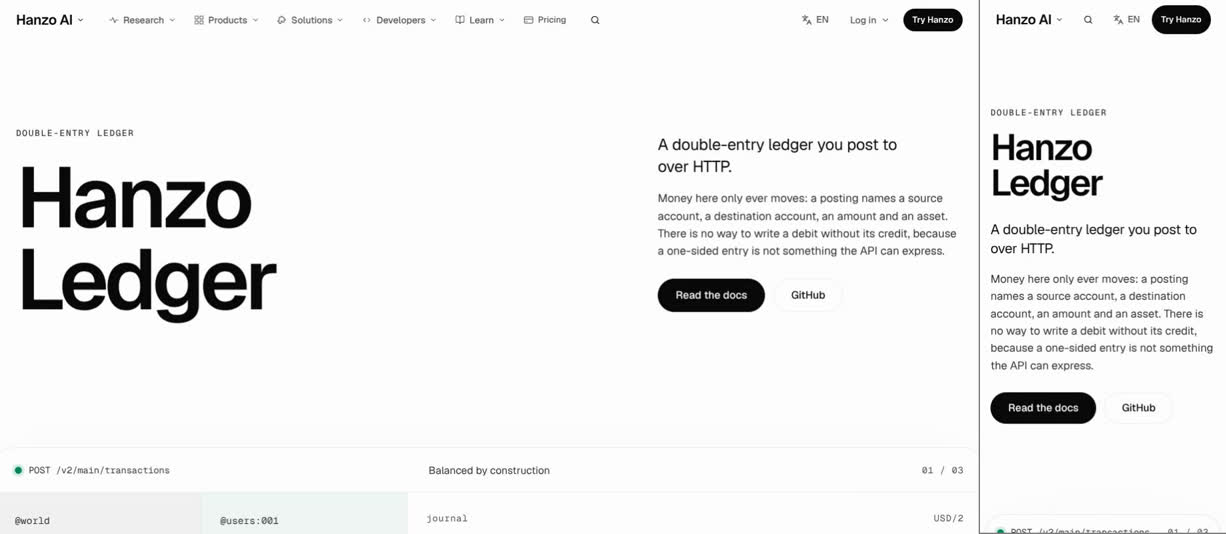
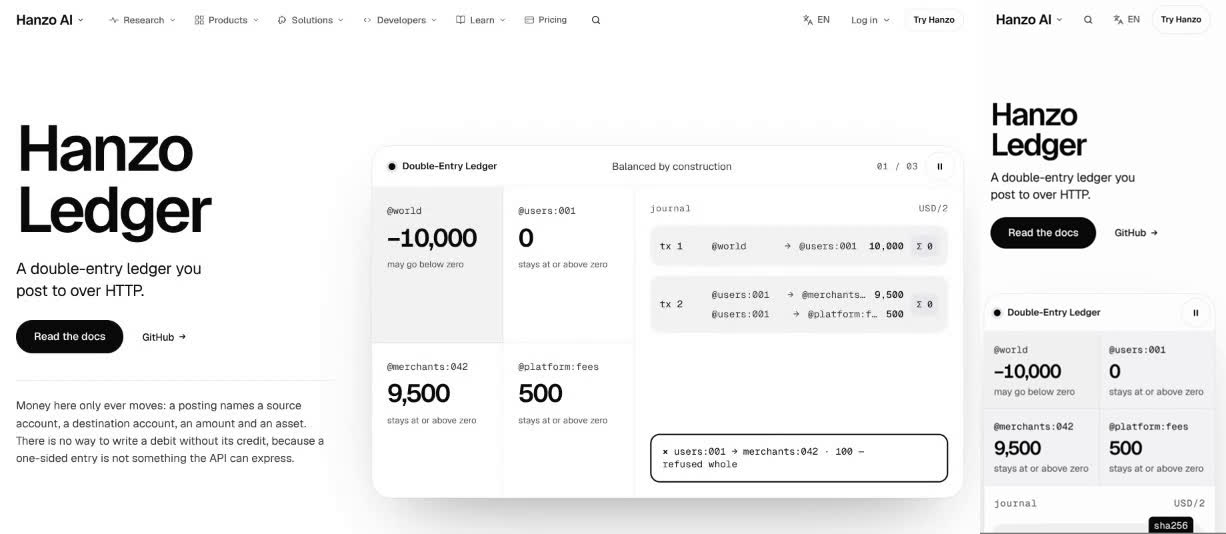
re-review: /ledger 6/10 (colour and eyebrow fixed, book on first screen; two sticky asks stacked, green code panel)
Claude-Session: https://claude.ai/code/session_01DqUybEnABm6Lfey1goid2b

diff --git a/docs/review/ledger.md b/docs/review/ledger.md
@@ -1,48 +1,90 @@
 # /ledger: James-eye review
 
-Verdict: 5/10
-First complaint: "It's green. Green accents are on my reject list, and the whole book is emerald, with red on top. Then on my phone the first screen is a label, a title and a paragraph of small text, with no ledger in sight. That's a document, not a product."
+Verdict: 6/10
+First complaint: "The top is right now: the ledger moves and it's all grey. But as soon as I scroll there are two 'Read the docs' buttons stuck on top of each other at the bottom. It looks broken. In the black section the first tab is just an empty pill, and 'See the request' opens in green, blue and yellow."
 
-Reviewed: branch `claude/friendly-mccarthy-g2d3no` @ `981cd30` (not on main yet). Files hash: `559dd4e16356`
-Walked 7 Nov 13:39–13:45 UTC on the dev server, moving, at 1470×801 and 375×812 (videos, frame sheets and a frame-difference motion log kept by the critic; the site loader was skipped).
+Reviewed: main @ `069c088` (last page commit `4e4b1b1`). Files hash: `506a34f8904e`
+Walked 7 Nov 14:16–14:18 UTC on the dev server, moving, at 1470×801 and 375×812 (videos, frame sheets and a frame-difference motion log kept by the critic; the site loader was skipped).
 Proof: `img/ledger.jpg` (desktop first screen | phone first screen).
 
+## Since the last review
+- **Done: the emerald, the red and the eyebrow.** No hues on the page at either width (it was emerald and red). Nothing sits above the h1 (it was the 23px "DOUBLE-ENTRY LEDGER" label). **Still open:** the "See the request" sheet. Its code has green strings (#1a7f37), blue keywords (#0a58ca) and a yellow highlight on the Idempotency-Key line (phone film at 26 s). The walk's hue count missed it because the sheet was open for only about a second.
+- **Done: the book is on the first screen at both widths.** At 1470×801 the whole book sits beside the title: four balances (−10,000 / 0 / 9,500 / 500), the journal and the note. At 375×812 it starts at about 450px with all four balances above the fold. On phone 21 of 25 frames move in the first second.
+- **Half done: one ask.** "Read the docs" is now the solid button in the hero, the phone bar and the close. "GitHub", "View on GitHub" and "Deploy to Cloud" are text, and there are 3 `data-cta`. But on desktop the page's own sticky pill sits on top of the site's ask bar. That makes two fixed, solid "Read the docs" buttons at y 726 and 734 on every screen from s2 to s8, a few pixels apart, so the edges of both show. At the close (s9) the site's bar steps aside, but the page's pill stays on beside the close's own solid button.
+- **Done: buttons answer, pause, coverage.** The hero's "Read the docs" now answers on hover and presses to 0.98 (it was dead). The book has a 44px pause button (`aria-pressed`), and the tap works on phone. No phone targets are under 44px now (before: 21px links and a 40px chip). `docs/coverage/ledger.md` exists, and the header has Persona, Goal and CTA.
+- **Half done: the dark room.** Each capability now has an object: the Numscript with its result, "10000 USD/2 → 100.00 USD", and the balances list. Tapping "USD/2" switches to it. But the selected tab is invisible. Its pill never draws, so "send" measures 1.2:1 and looks like an empty outline at both widths, and its hover is dead.
+
 ## The 11 answers
-1. **Sells in 5 seconds, moves within 1 second?** Desktop: the title cuts in by line mask, so it moves. But the self-balancing book, the page's best idea, sits on the fold: at 801 high you see only its toolbar ("POST /v2/main/transactions · Balanced by construction · 01 / 03"). The rest of the first screen is a 4-line paragraph. Phone: no object at all on the first screen. The book starts below it.
-2. **One in, one out, or a document?** The three sticky chapters (posting, chain, retry) work: one scene changes while the text holds, with a 01–03 progress line. The dark room "What the API gives you" is four stacked items with paragraphs, which reads as a list. The close is three text blocks.
-3. **A real object in every section?** Hero: yes, the book (accounts, journal, Σ 0 seals, idempotency key), but it is below the first screen. Chapters: yes. The splitter: yes, the best Beyond so far. Dark room: big mono glyphs ("send", "USD/2", "Σ users:*") stand in for objects; that is type, not a thing. Close: no object.
-4. **One ask, sticky after the hero?** No. The hero has "Read the docs" (solid) and "GitHub" (outlined). The phone bottom bar carries "Read the docs" while the header shows a solid "Try Hanzo": two solid asks on every phone screen. The close's solid button is a third verb, "Deploy to Cloud". On desktop no page ask follows you after the hero; only the header's "Try Hanzo" does.
-5. **Every hover and press answers?** No. "Read the docs" (hero) and "Deploy to Cloud" (close): the hover only changes the border colour, which is invisible on a black button, and there is no press state. The split slider shows no hover. "See the request" answers well (press 0.97). The close's text links answer. Nothing responds to the pointer otherwise (no magnetic ask, tilt or preview).
-6. **Overlap, font swap, layout shift?** None found. CLS 0 on both, h1 box steady, no horizontal scroll at 375.
-7. **Which reference, and is its motion there?** apple.com product page: sticky chapters, yes. synchronized.studio card-open: no; "See the request" opens a sheet, which is the nearest. There is no hero figure for the anthropic-launch feel, even though the balances (−10,000 / 10,000 / 9,500 / 500) could be one.
-8. **Different from its neighbours?** No. Same first screen as /metrics and the Cloud kit: a two-line 128px "Hanzo X" left, lede and buttons right, product strip on the fold, numbered chapters, one dark room, a "Get X" block.
-9. **All 18 parts covered?** No; see below. `docs/coverage/ledger.md` is missing.
+1. **Sells in 5 seconds, moves within 1 second?** Yes, now.
+   - Desktop: everything fits inside 801: "Hanzo / Ledger" at 96px (line height 0.92), "A double-entry ledger you post to over HTTP.", the ask, and the live book beside them.
+   - The title cuts in by line mask (5/25 moving frames in the first second). Then the book posts by itself (15/45 moving frames in the rest of the 3 s): new money from world, the split as one transaction, an overdraft "refused whole", then "Nothing is edited" with the sha256 chain and the reversal.
+   - Phone: title, line, ask and the book's four balances are all on the first screen, with 21/25 moving frames in the first second.
+2. **One in, one out, or a document?** Mostly one in, one out. The hero book leads into "Every cent lands somewhere" and its three pinned chapters (01–03, one lit at a time, with a progress line). Then come the dark room's tabs and the splitter. On phone the three chapters swap in turn: the posting with a dot running down the arrow, the chain, then the retries. The close is still a block of text: "Get Ledger", two chips, "Get started with Ledger", "Paste and ship", an agent prompt and the "Deploy to Cloud" row.
+   - Evidence caveat: the desktop film froze from about 10 s to 19 s and again from 22 s to 27 s, while the page kept changing underneath. Each stop logged 18–55 DOM changes, and the sticky bar measured on at s1 but does not appear in the frames.
+   - So the STILL readings at desktop s1, s2 and s4 come from the recording, not the page, and chapter 01 was never filmed lit on desktop.
+   - Every phone screen moves, down to the footer.
+3. **A real object in every section?** Yes, apart from the close.
+   - Hero: the book.
+   - Chapters: the posting (source → destination, 9500, USD/2, Σ 0), the chain (tx 1–3, "sha256 of tx 2") and the retries ("the original — tx 2", "different postings — caught", "1 transaction 2, posted once").
+   - Dark room: one object per tab.
+   - Numscript: the splitter, which rewrites the postings and the Numscript as you drag. 95% → 75% gave 7,500 / 2,500 at both widths.
+   - Close: only the shared agent prompt box.
+4. **One ask, sticky after the hero?** The verb is right, but desktop doubles it.
+   - Phone gets it right: the thumb bar carries "Read the docs" from s2 to s7 and steps aside for the close's button at s8.
+   - Desktop, s2 to s8: the page's pill ("Hanzo Ledger | Read the docs") sits over the site's own ask bar (search icon + "Read the docs →"). Both are fixed, both are solid, both sit bottom centre.
+   - With the header, that makes three fixed layers. PLAN 0.9 allows two.
+   - At s9 the site's bar steps aside for the close's button, but the page's pill stays on next to it.
+5. **Every hover and press answers?** Mostly.
+   - Hero "Read the docs": the hover answers, and it presses to 0.98.
+   - "GitHub": the hover answers, and it presses 1px.
+   - Pause: it lifts 1px on hover, which the walker logs as a jump (it is the lift, not a layout move), and presses to 0.94.
+   - "Σ users:*": the hover answers, and it presses to 0.98.
+   - "See the request": the hover answers, it presses to 0.97, and the sheet rises on phone.
+   - The chips, "View on GitHub" and Copy answer (Copy presses to 0.92).
+   - Dead: the selected tab "send" (no hover, and its label is gone) and the amount field (no hover).
+   - Nothing follows the pointer: no magnetic ask, no tilt, no hover preview (JAMES rule 9).
+6. **Overlap, font swap, layout shift?**
+   - The two sticky asks overlap each other on desktop. They are fixed, so the overlap count misses them, but a crop of the film at 32 s shows two pills, one behind the other.
+   - At s9 the page's pill also sits on top of the "Get started with Ledger" heading.
+   - CLS is 0 at both widths, the h1 box is steady (one reading each), and there is no horizontal scroll at 375 or 320.
+7. **Which reference, and is its motion there?**
+   - apple.com product page: yes. The product is the hero and the chapters pin.
+   - motion.dev: the balances roll on a spring and the sheet rises. The gliding pill (layoutId) is in the code but never draws.
+   - synchronized.studio card-open: absent.
+   - anthropic launch: the balances are big, but there is no hero figure.
+8. **Different from its neighbours?** Only the hero is its own now.
+   - The book beside the title is not /telemetry's strip on the fold, and /metrics (same commit) has moved to a one-line title over a full-bleed chart.
+   - Everything after the hero is the shared Business 1 kit:
+     - the same `BizChapters` (stage left, 01/0N right, progress line) as /payments, /console, /flow, /dataroom and /captable;
+     - the same "Hanzo X | ask" pill as /payments, /flow, /console, /jin and /captable;
+     - the same two-line `bz-display md` "Hanzo / X" title as /dataroom;
+     - the same "Get X" close (licence chip, hanzoai chip, Paste and ship, Deploy to Cloud row) as every Cloud page.
+   - James: "It's not just a template."
+9. **All 18 parts covered?** No; see below. The coverage file exists now, but two of its claims fail the walk.
 10. **Banned tells?** Yes:
-   - Green accent (balances, Σ seals, chain highlight, slider, the dark room's mono glyphs), declared in the file as "accent emerald". This is a JAMES.md reject.
-   - Red in "same key, different postings — caught".
-   - A "DOUBLE-ENTRY LEDGER" eyebrow 23px above the h1.
-   - Dead hover on the two solid buttons.
-11. **Copy untouched?** Yes. Parity 55/55 text and 3/3 links. Additions are demo data (accounts, amounts, hashes, Numscript) plus labels such as "may go below zero", "a reversing transaction points back at the original" and "transaction 2, posted once". They paraphrase Hanzo's own sentences on the page, and none is a new claim.
+    - UI hues in the "See the request" sheet: green strings (a green accent), blue keywords and a yellow highlight.
+    - Two buttons overlapping: the stacked sticky asks on desktop.
+
+    The page itself is clean: no hues, nothing above the h1, no opacity-only hover, no title tooltips, no sound.
+11. **Copy untouched?** Yes. Parity is 55/55 text and 3/3 links. The 26 added strings are demo data (accounts, amounts, hashes, Numscript) and labels. The closest to a new sentence is the splitter's "10,000 in USD/2, the smallest unit: whole numbers, nothing rounds on the way in". It repeats Hanzo's own sentence from the "USD/2" tab and adds no claim or number.
 
 ## Missing from the 18 parts (PLAN-COMPONENTS §2.1–2.18, measured)
-- **2.1 Strategy / 4 Common gate:** no `Persona:`, `Goal:`, `CTA:` or metric id in the page header. More than one solid button shows per viewport.
-- **2.3 First impression:** with JS off, the hero lede, the "Money here only ever moves…" paragraph and the "Read the docs" button are invisible (15 hidden runs), which fails a P1 row. The phone fold has no product peeking (plan: ≥80px of app within 660px). The close is not a Band that repeats the hero ask.
-- **2.4 Conversion:** 0 `data-cta`. The thumb bar's verb ("Read the docs") differs from the close ("Deploy to Cloud").
-- **2.5 Proof:** no figure is staged, even though the balances could be one.
-- **2.6 Content:** 51 text runs under 14px on phone (journal rows, labels).
-- **2.7 Visual system:** emerald and red break the 0-hue override. The override's "status colour only with a shape or text cue" does not cover a whole-page accent.
-- **2.8 Components:** 10 bare `:hover` rules. The solid buttons have no press state, and their hover changes only an invisible border.
-- **2.9 Motion:** 2 `setInterval` timers. The self-posting book has no pause control (2.12, WCAG 2.2.2). Reduced motion settles.
-- **2.11 Mobile:** the close's "Read the docs" and "View on GitHub" text links are 21px tall (plan: 44px), and the "hanzoai" chip is 40px.
-- **2.12 Accessibility:** green figures "10,000" and "Σ 0" measure 4.1:1, under 4.5:1.
-- **2.17 States:** no loading or failure state for the book or the splitter.
-- **Coverage:** `docs/coverage/ledger.md` is missing.
-- Passing: one h1, one main, no horizontal scroll at 320, no raw img/video/table, CLS 0.
+- **2.1 Strategy / 4 Common gate:** two solid buttons per desktop viewport from s2 to s9 (the stacked bars, then the pill beside the close). The metric id sits inside the Persona line ("metric docs_click"), not on its own line, so the check finds none. There are 6 raw `.x-btn` uses, which gate line 2 bans.
+- **2.3 First impression:** with JS off, 12 text runs are hidden, all of them rows in the chapter 02 and 03 scenes (the chain and the retries). Hanzo's own words all show (before: 15 hidden, the lede among them). The close is not a `Band`.
+- **2.4 Conversion / 0.9 Sticky layers:** desktop shows the header plus two fixed ask bars (the plan allows the header plus one). The page's `AskBar` does not step aside for the close's button.
+- **2.6 Content:** 22 text runs at 13px on phone ("source", "destination", "amount", "asset", "01"), under the 14px floor. On desktop, "Agent prompt" and "Copy" are 12.5px.
+- **2.7 Visual system:** the sheet's code colours and its yellow highlight break the 0-hue override.
+- **2.8 Components:** 14 bare `:hover` rules (before: 10). The selected capability tab has no hover and no visible state. The amount field has no hover.
+- **2.9 Motion:** nothing answers the pointer (rule 9). The shared Frame file has 2 `setInterval` timers. Reduced motion settles (0 running after 3 s).
+- **2.11 Mobile:** on phone the chapter stage pins at the top while the chapters scroll under it. The plan says no big sticky at 900px and under: stack them. At 375 the code panes in the dark room and the splitter are cut at the right edge ("@merchants:(").
+- **2.12 Accessibility:** the selected tab's label "send" measures 1.2:1.
+- **Coverage:** `docs/coverage/ledger.md` exists, but two of its claims fail. It says "one solid button per screen" (desktop shows two) and "text is 14px or larger" at 375 (22 runs are 13px).
+- Passing: one h1, visible with JS off; one main; CLS 0 at both widths; no horizontal scroll at 320; no tiny targets; 0 title tooltips; 3 `data-cta` and 1 `data-thumb`; no raw img, video or table; a pause control on the book; an empty-amount state on the splitter; parity 55/55.
 
 ## Fixes (in order)
-1. **Strip the emerald and the red.** Use ink for balances and Σ 0, grey for the chain highlight and the slider, and an inverted ink chip for "caught". Contrast and weight do the work that colour did.
-2. **Delete the "DOUBLE-ENTRY LEDGER" eyebrow above the h1.**
-3. **Put the book on the first screen at both widths.** On desktop, bring it up beside or directly under the title so its four balances are visible at 801 high. On phone, show the title, one line, the ask and then the book. The long "Money here only ever moves…" paragraph moves behind the book or into chapter 1.
-4. **One ask.** Use "Read the docs" in the hero, in a desktop sticky bar after the hero, in the phone bar, and as the one solid button in the close. "Deploy to Cloud" and "View on GitHub" become the text row.
-5. **Make the solid buttons answer.** Give the hover a fill or ink shift plus an arrow nudge, and give the press scale 0.98. Give the slider thumb a hover state.
-6. **Give the dark room an object.** For example, the book's journal row expanding per capability, instead of four stacked text items.
+1. **One sticky bar on desktop.** Delete `<AskBar>` from `Ledger.jsx`. The site's ask bar already carries "Read the docs" from the hero's `data-thumb`, and it already steps aside for the close's button (it did at s9). The page's pill is the one that stays on.
+2. **Take the colour out of "See the request".** Drop the `mark` prop, or scope `.ld .cf-mark` to a grey wash (`--hz-100`). Set `.ld .cf-code.light .s` and `.k` to ink and grey, and let weight tell them apart.
+3. **Draw the dark room's pill.** The rule `.ld-caps-tabs button span { position: relative }` also catches the pill and collapses it. Scope it to the label (`button > span:not(.ld-caps-pill)`). Then the white pill shows and glides, and "send" reads black on white. Give the selected tab a hover.
+4. **Make the hero answer the pointer.** Hovering a journal row lights the accounts it touched (the `hot` state already exists), and hovering an account lights its postings. That tells the visitor something and needs no new words.
+5. **Floors and hovers.** Raise the phone chapter labels and the "01 / 03" meta to 14px, and "Agent prompt" and "Copy" to 13px. Wrap the 14 bare `:hover` rules in `@media (hover: hover)`.
+6. **Stack the chapters on phone.** Under 900px, render each chapter's own scene above its text instead of pinning one stage on top. Every word and scene stays.
